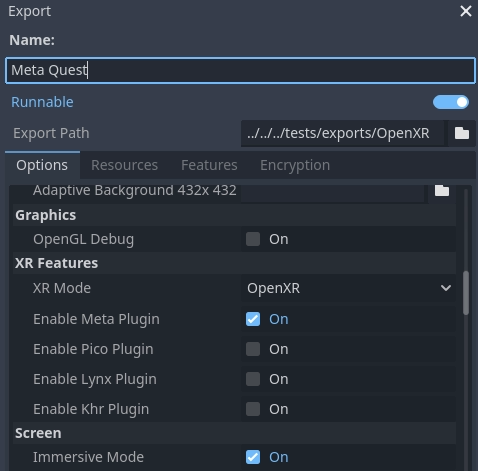
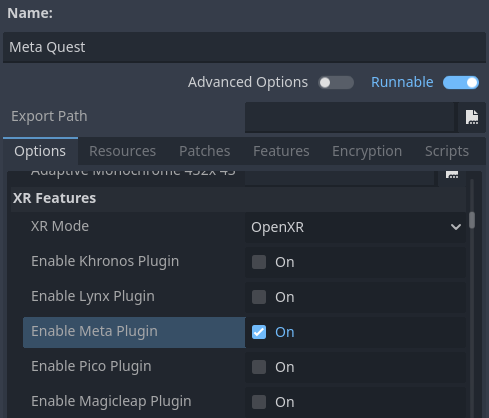
Update XR Deploying to android page for 4.4

diff --git a/tutorials/xr/deploying_to_android.rst b/tutorials/xr/deploying_to_android.rst
@@ -11,10 +11,13 @@ Before following the OpenXR-specific instructions here, you'll need to first set
 
 - Installing OpenJDK 17
 - Installing Android Studio
-- Creating a debug.keystore
-- Configuring the location of the Android SDK and debug.keystore in Godot
+- Configuring the location of the Android SDK in Godot
 
 See :ref:`doc_exporting_for_android` for the full details, and return here when you've finished these steps.
+
+.. warning::
+    While the Mobile Vulkan renderer has many optimizations targeted at mobile devices, we're still working out the kinks.
+    It is highly advisable to use the compatibility renderer (OpenGL) for the time being when targeting Android based XR devices.
 
 Gradle Android build
 --------------------
@@ -36,37 +39,17 @@ You can read more about gradle builds here: :ref:`doc_android_gradle_build`.
 Installing the vendors plugin
 -----------------------------
 
-.. warning::
-    The Android plugin structure has been restructured in Godot 4.2, and the loader plugin was renamed to vendors plugin as it now includes more than just loaders.
-    If you've previously installed the loader plugin you need to delete it from the `android/plugins` folder.
-
-The vendors plugin can be downloaded from the asset library, search for "OpenXR vendors" and install the plugin:
+The vendors plugin can be downloaded from the asset library, search for "OpenXR vendors"
+and install the one named "Godot OpenXR Vendors plugin for Godot 4.3".
 
 .. image:: img/openxr_loader_asset_lib.webp
 
-You will find the installed files inside the **addons** folder.
-
-Alternatively you can manually install the vendors plugin by downloading the v2.x version of the plugin `from the release page here <https://github.com/GodotVR/godot_openxr_vendors/releases>`__.
-
-You will need to copy the `assets/addons/godotopenxrvendors` folder from the zip file into your projects `addons` folder.
+You will find the installed files inside the **addons** folder. Alternatively you
+can manually install the vendors plugin by downloading it `from the release page here <https://github.com/GodotVR/godot_openxr_vendors/releases>`__.
+You will need to copy the `assets/addons/godotopenxrvendors` folder from the zip
+file into your projects `addons` folder.
 
 You can find the main repository of the vendors plugin `here <https://github.com/GodotVR/godot_openxr_vendors>`__.
-
-Enabling the vendors plugin
----------------------------
-
-The vendors plugin needs to be enabled before the export settings become accessible.
-Open **Project** and select **Project Settings...**.
-Go to the **Plugins** tab.
-Enable the **GodotOpenXRVendors** plugin.
-
-.. image:: img/xr_enable_vendors_plugin.webp
-
-.. note::
-    This is no longer required from vendors plugin 2.0.3 onwards as it now uses GDExtension.
-    The plugin will not be shown in this list.
-    You can verify it is installed correctly by checking if the export presets contain
-    the entries described below.
 
 Creating the export presets
 ---------------------------
@@ -78,28 +61,17 @@ Next change the name of the export preset for the device you're setting this up 
 And enable **Use Gradle Build**.
 If you want to use one-click deploy (described below), ensure that **Runnable** is enabled.
 
-If the vendors plugins were installed correctly you should find entries for the different headsets, select the entry for meta:
+If the vendors plugins were installed correctly you should find entries for the
+different headsets under **XR Features**. Change the **XR Mode** to **OpenXR**, then
+select the entry for your headset if you see one. If you don't see one enable the
+Khronos plugin.
 
 .. image:: img/android_meta_quest.webp
 
-Also change the **XR Mode** to **OpenXR**.
-
-Scroll to the bottom of the list and you'll find additional XR feature sections, currently only **Meta XR Features** is available.
-The hand tracking and passthrough settings here currently only work for the Meta Quest and you will need to select the appropriate settings if you wish to use these features.
-
-.. image:: img/xr_export_features.webp
-
-Now you can repeat the same process for the other devices.
-
-.. note::
-    There are separate loaders for the Meta Quest, Pico and Lynx R1 headsets.
-
-    The fourth option is the official Khronos loader, in due time all headsets should work with this loader.
-    At the moment this loader has been tested with the Magic Leap 2 and standalone HTC headsets.
-
-.. warning::
-    While the Mobile Vulkan renderer has many optimizations targeted at mobile devices, we're still working out the kinks.
-    It is highly advisable to use the compatibility renderer (OpenGL) for the time being when targeting Android based XR devices.
+Scroll to the bottom of the list and you'll find additional XR feature sections,
+currently only **Meta XR Features**, **Pico XR Features**, **Magicleap XR Features**
+and **Khronos XR Features** for HTC are available. You will need to select the
+appropriate settings if you wish to use these features.
 
 Running on your device from the Godot editor
 --------------------------------------------
